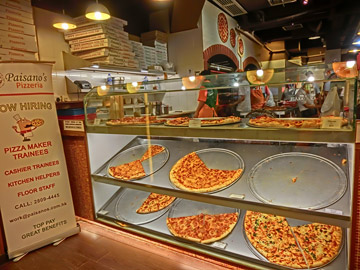
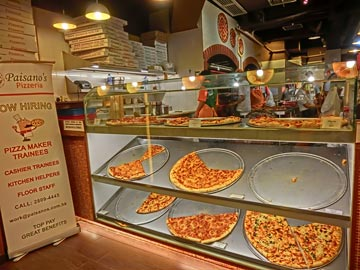
use media queries for images

diff --git a/views/pizza.html b/views/pizza.html
@@ -38,7 +38,8 @@
     </div>
     <div id="callToAction" class="row">
       <div class="col-md-4">
-        <img src="images/pizzeria720.jpg" srcset="images/pizzeria360.jpg 360w, images/pizzeria720.jpg 720w, images/pizzeria1440.jpg 1440w" sizes="(max-width:990px) 100vw, 360px" class="img-responsive" alt="pizzas in display"> <!-- Image credit to: http://commons.wikimedia.org/wiki/File:HK_TST_night_%E5%98%89%E8%98%AD%E9%81%93_Granville_Road_restaurant_Paisano's_Pizzeria_pizza_Dec-2013.JPG -->
+        <img src="images/pizzeria360.jpg" alt="pizzas in display" class="small-image">
+        <img src="images/pizzeria720.jpg" alt="pizzas in display" class="medium-image"> <!-- Image credit to: http://commons.wikimedia.org/wiki/File:HK_TST_night_%E5%98%89%E8%98%AD%E9%81%93_Granville_Road_restaurant_Paisano's_Pizzeria_pizza_Dec-2013.JPG -->
       </div>
       <div class="col-md-8">
         <div class="row">

diff --git a/views/css/style.css b/views/css/style.css
@@ -21,6 +21,8 @@ form {
   display: inline-block;
 }
 
+img{max-width:100%;}
+
 .centered {
   text-align: center;
 }
@@ -29,9 +31,25 @@ form {
   font-weight: 800;
 }
 
-.size1 .randomPizzaContainer{width:25%;}
-.size2 .randomPizzaContainer{width:33%;}
-.size3 .randomPizzaContainer{width:50%;}
+.size1 .randomPizzaContainer{
+  width:25%;
+}
+
+.size2 .randomPizzaContainer{
+  width:33%;
+}
+
+.size3 .randomPizzaContainer{
+  width:50%;
+}
+
+.small-image{display:inline;}
+.medium-image{display:none;}
+
+@media only screen and (min-width: 420px) and (max-width: 990px){
+.small-image{display:none;}
+.medium-image{display:inline;}
+}
 
 .mover {
   position: fixed;
